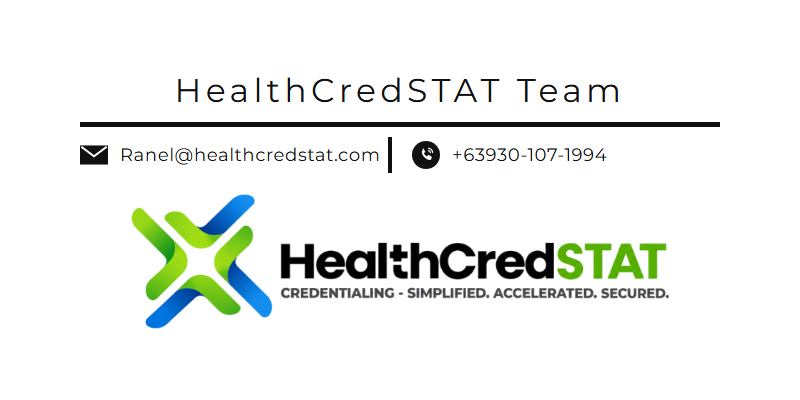
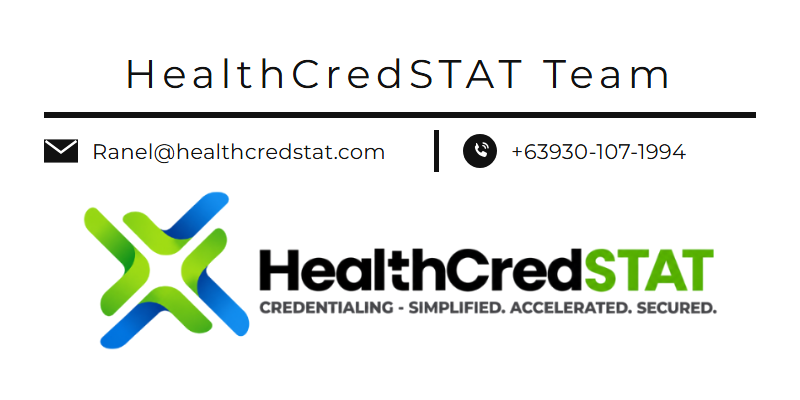
Size the signature content to match the other company signature
Measured against the BigHorn signature in the same inbox: the cards
were both 400x200, but our content filled only 80% x 63% of it versus
about 90% x 73%. Larger title, contact row and logo now fill 89% x 73%,
with a gap on both sides of the divider. Image URL bumped to ?v=4.

Changed region(s): [[0.0938, 0.48, 0.9062, 0.87], [0.0312, 0.15, 0.9688, 0.42]]

diff --git a/frontend/app/api/contact/route.ts b/frontend/app/api/contact/route.ts
@@ -108,7 +108,7 @@ export async function POST(request: Request) {
     // The welcome email goes out after the reply, so the visitor never waits on it, and a mail problem never
     // loses the lead. The signature image is loaded from this site's own address (the request's origin).
     // Bump ?v= whenever signature.png changes: email apps cache images by address and would keep the old one.
-    const signatureUrl = `${new URL(request.url).origin}/email/signature.png?v=3`;
+    const signatureUrl = `${new URL(request.url).origin}/email/signature.png?v=4`;
     after(() => sendWelcomeEmail(lead, signatureUrl).catch((err) => console.error('[contact] Welcome email failed', err)));
     return NextResponse.json({ success: true, message: SUCCESS_MESSAGE, submissionId: itemId });
   } catch (err) {
